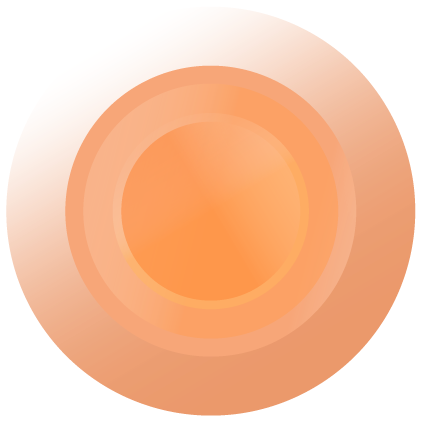
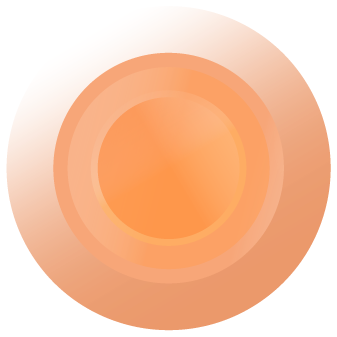
(feat) Implement radial gradient colors behind sun and moon
- Change 'dusk' to 'dawn'

diff --git a/client/src/css/style.scss b/client/src/css/style.scss
@@ -88,7 +88,7 @@ h2 {
   background: rgb(0, 181, 255);
 }
 
-.latenight, .dusk, .morning, .afternoon, .evening, .night {
+.latenight, .dawn, .morning, .afternoon, .evening, .night {
   position: fixed;
   top: 0;
   left: 0;
@@ -103,8 +103,8 @@ h2 {
   background-image: url('../images/landscape/background-latenight.png');
 }
 
-.dusk {
-  background-image: url('../images/landscape/background-dusk.png');
+.dawn {
+  background-image: url('../images/landscape/background-dawn.png');
 }
 
 .morning {
@@ -130,15 +130,15 @@ h2 {
   height: 100%;
   position: absolute;
   background-position: bottom center;
-  z-index: 0;
+  z-index: -1;
 }
 
 .landscape.latenight {
   background-image: url('../images/landscape/landscape-latenight.png');
 }
 
-.landscape.dusk {
-  background-image: url('../images/landscape/landscape-dusk.png');
+.landscape.dawn {
+  background-image: url('../images/landscape/landscape-dawn.png');
 }
 
 .landscape.morning {
@@ -162,33 +162,51 @@ h2 {
 // Sun and Moon Colors
 
 .sunmoon-latenight {
+  z-index: -2;
   position: absolute;
-  -webkit-filter: drop-shadow(5px 5px 55px rgba(238,235,223,.7));
+  -webkit-filter: drop-shadow(5px 5px 55px rgba(238,235,223,1));
+  right: 20%;
+  top: 7%;
 }
 
-.sunmoon-dusk {
+.sunmoon-dawn {
+  z-index: -2;
   position: absolute;
-  -webkit-filter: drop-shadow(5px 5px 55px rgba(254,138,13,.7));
+  -webkit-filter: drop-shadow(5px 5px 55px rgba(254,138,13,1));
+  left: 5%;
+  top: 8%;
 }
 
 .sunmoon-morning {
+  z-index: -2;
   position: absolute;
-  -webkit-filter: drop-shadow(5px 5px 55px rgba(238,235,223,.7));
+  -webkit-filter: drop-shadow(5px 5px 55px rgba(254,194,43,1));
+  left: 25%;
+  top: 0;
 }
 
 .sunmoon-afternoon {
+  z-index: -2;
   position: absolute;
-  -webkit-filter: drop-shadow(5px 5px 55px rgba(238,235,223,.7));
+  -webkit-filter: drop-shadow(5px 5px 55px rgba(254,186,16,1));
+  right: 25%;
+  top: 0;
 }
 
 .sunmoon-evening {
+  z-index: -2;
   position: absolute;
-  -webkit-filter: drop-shadow(5px 5px 55px rgba(238,235,223,.7));
+  -webkit-filter: drop-shadow(5px 5px 55px rgba(254,138,13,1));
+  right: 5%;
+  top: 25%;
 }
 
 .sunmoon-night {
+  z-index: -2;
   position: absolute;
-  -webkit-filter: drop-shadow(5px 5px 55px rgba(238,235,223,.7));
+  -webkit-filter: drop-shadow(5px 5px 55px rgba(238,235,223,1));
+  left: 20%;
+  top: 7%;
 }
 
 .meridian {

diff --git a/client/src/js/components/Landscape.jsx b/client/src/js/components/Landscape.jsx
@@ -47,7 +47,7 @@ var Landscape = React.createClass({
     if (hour < 12) {
       meridian = 'a.m.';
     } else {
-      meridian = 'p.m.'
+      meridian = 'p.m.';
     }
 
     return meridian;    
@@ -61,7 +61,7 @@ var Landscape = React.createClass({
       timeOfDay = 'latenight';
 
     } else if (hour >= 4 && hour < 8) {
-      timeOfDay = 'dusk';
+      timeOfDay = 'dawn';
 
     // morning for normal humans
     } else if (hour >= 8 && hour < 12) {
